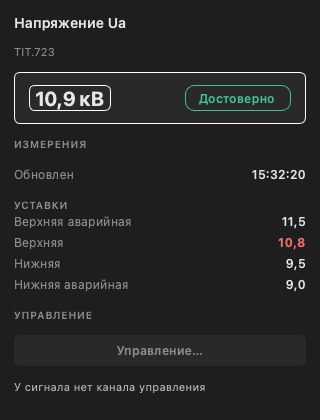
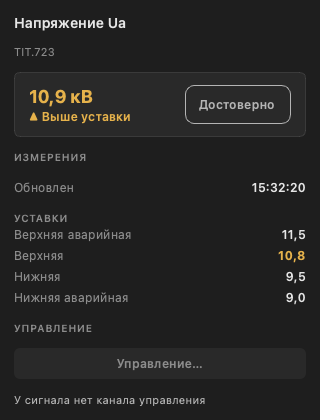
scada-docs: refresh published captures; describe the alarm fill and quality cues as shipped
Publishes the reviewed generator subset into img/ (24 images). Six move
because of d74cd3f3d (events, events-alarm-surface, table-workspace,
inspector-panel, series-inspector, devices, plus the two workbench
windows); the rest had lagged behind earlier client commits whose
gallery captures were already reviewed (account-roles, roles, users,
change-password, summary, limits-chart, graph-cursor, ...).

The text now matches the client, RU and en/ together:
- the journal fills only an alarm that awaits acknowledgement and is
  still active; acknowledged rows and archive records keep the severity
  as text colour (client.md, client/workbench.md, client/events.md);
- the journal's column table gains Message after Signal and the State
  column it already had but the page never listed;
- good quality is unmarked: an empty Quality cell, no tree dot, an
  ordinary-colour «Достоверно» in the Inspector.

Also corrected while there: the tree dot never blinked yellow for an
unacknowledged event (the value cell's background blinks, backlog 1120),
and uncertain quality does have a dot (amber); the pages said otherwise.

Validators: validate_i18n_pages.rb, validate_en_links.rb,
validate_image_manifest.py. The Jekyll build and built-site link check
were not run (no link or heading changed).

diff --git a/client.md b/client.md
@@ -770,7 +770,8 @@ permalink: /client/
 <dt>Столбец «Достоверность» в таблице</dt>
 <dd>Качество значения словом:
 <ul>
-<li>«Достоверно» (зелёным) — значение достоверно;</li>
+<li>пустая ячейка — значение достоверно: столбец заполняется только тогда,
+когда со значением что-то не так;</li>
 <li>«Неопределённо» (жёлтым) — значение устарело, признак <code>[У]</code>;
 текст ячеек строки тоже выводится жёлтым;</li>
 <li>«Недостоверно» (красным) — признак недостоверности или нет связи
@@ -783,21 +784,22 @@ permalink: /client/
 К, У в скобках перед значением, а инспектор — надписью «Недостоверно» (смотрите <a href="#control-checklist">Перед командой управления</a>).</dd>
 
 <dt>Точка слева от значения в дереве объектов</dt>
-<dd>Зелёная — значение достоверно; красная — недостоверно; <b>мигающая жёлтая</b> —
-по объекту есть неквитированное событие (одновременно мигает жёлтым и фон строки
-объекта). Отдельного цвета точки для «неопределённого» качества нет — его
-показывает столбец «Достоверность» в таблице. Пока значение
-не получено, точка не выводится; у групп точки нет — для группы выводится
-состояние связи с её устройством.</dd>
+<dd>Точка выводится только у значения с отклонением: жёлтая — значение
+устарело (неопределённо), красная — недостоверно. У достоверного значения точки
+нет. Неквитированное событие по объекту отмечает не точка, а мигающий фон
+ячейки значения. Пока значение не получено, точка не выводится; у групп точки
+нет — для группы выводится состояние связи с её устройством.</dd>
 
 <dt>Признак качества в инспекторе</dt>
-<dd>«Достоверно» или «Недостоверно» рядом с текущим значением. «Недостоверно» выводится для значения с признаком недостоверности, а также при потере связи с устройством ([С]), ошибке подключения ([Н]) или конфигурации ([К]) и устаревании ([У]).</dd>
+<dd>«Достоверно» (обычным цветом) или «Недостоверно» (красным) рядом с текущим значением. «Недостоверно» выводится для значения с признаком недостоверности, а также при потере связи с устройством ([С]), ошибке подключения ([Н]) или конфигурации ([К]) и устаревании ([У]).</dd>
 
 <dt>Цвет строки в журнале и панели событий</dt>
-<dd>Важность события: красная заливка — «Критично» (800 и выше), жёлтая —
-«Предупреждение» (600–799), остальные строки без заливки. Квитирование цвет
-строки не меняет; неквитированное событие отмечено точкой «●» в первом
-столбце. Смотрите <a href="{{ '/client/events/' | relative_url }}#severity">Важность</a>.</dd>
+<dd>Важность события: красный цвет — «Критично» (800 и выше), жёлтый —
+«Предупреждение» (600–799), остальные строки обычным цветом. Заливкой
+выделяется только тревога, которая ждёт квитирования и ещё действует; после
+квитирования, а также в записях архива строка остаётся без заливки, а
+важность показывает цвет текста. Неквитированное событие отмечено точкой «●» в
+первом столбце, а столбец «Состояние» называет его состояние словами. Смотрите <a href="{{ '/client/events/' | relative_url }}#severity">Важность</a>.</dd>
 
 </dl>
 

diff --git a/client/workbench.md b/client/workbench.md
@@ -33,9 +33,10 @@ permalink: /client/workbench/
   [Оповещение о тревогах]({{ '/client/alarms/' | relative_url }}#escalation)). Пользователь,
   состояние подключения и адрес сервера в этой строке не показываются — они
   выведены только в строке состояния.
-- **Панель объектов** — дерево объектов с полем «Фильтр» и точками качества:
-  зелёная — достоверно, красная — недостоверно, мигающая жёлтая — по объекту
-  есть неквитированное событие. Подробнее — в разделе
+- **Панель объектов** — дерево объектов с полем «Фильтр» и точками качества
+  у значений с отклонением: жёлтая — неопределённо, красная — недостоверно; у
+  достоверного значения точки нет. Неквитированное событие по объекту отмечает
+  мигающий фон ячейки значения. Подробнее — в разделе
   [Как читать значения и цвета]({{ '/client/' | relative_url }}#quality-legend).
   Дерево начинается сразу с содержимого: заголовок панели уже называет его,
   поэтому отдельная корневая строка не выводится. То же и в панелях
@@ -398,10 +399,12 @@ macOS она выглядит как ⌘K, в Windows — Ctrl+K.*
 
 [Журнал событий]({{ '/client/events/' | relative_url }}) читается как панель тревог:
 
-- **Цвет строки — важность.** Строка тревоги окрашивается по важности
-  (красная — критично, жёлтая — предупреждение); рядовые события остаются без
-  заливки, чтобы взгляд притягивали только тревоги. Квитирование цвет строки
-  не меняет.
+- **Цвет строки — важность, заливка — требуется действие.** Тревога, которая
+  ждёт квитирования и ещё действует, залита цветом важности (красная —
+  критично, жёлтая — предупреждение). Квитированная тревога и записи архива
+  остаются без заливки, а важность показывает цвет их текста, поэтому взгляд
+  притягивают только тревоги, ждущие оператора. Рядовые события выводятся
+  обычным цветом.
 - **Точка «не квитировано»** — первый столбец помечает каждую неквитированную
   строку точкой, а ячейка «Время квитирования» такой строки показывает
   «— ожидает —». Точка отвечает за состояние квитирования, цвет строки — за

diff --git a/en/client.md b/en/client.md
@@ -779,7 +779,8 @@ entered value does not show the backup-channel flag); then Б blocked,
 <dd>The value's quality in words (the Russian client shows the Russian
 labels):
 <ul>
-<li>"Good" («Достоверно», green) — the value is good;</li>
+<li>an empty cell — the value is good: the column is filled in only when
+something is wrong with the value;</li>
 <li>"Uncertain" («Неопределённо», amber) — the value is stale, the
 <code>[У]</code> flag; the row's cell text is amber too;</li>
 <li>"Bad" («Недостоверно», red) — the bad flag, or no connection
@@ -793,24 +794,25 @@ letters С, Н, К, У in the brackets before the value, and the Inspector as "B
 <a href="#control-checklist">Before a control command</a>).</dd>
 
 <dt>The dot beside a value in the object tree</dt>
-<dd>Green — the value is good; red — bad; <b>blinking yellow</b> — the object
-has an unacknowledged event (the row's background blinks yellow with it).
-There is no separate dot colour for "uncertain" quality — the table's
-"Quality" column shows it. No dot is drawn until a
-value has arrived, and groups have none — a group shows its device's
-connection state instead.</dd>
+<dd>A dot is drawn only beside a value that is not good: amber — the value is
+stale (uncertain), red — bad. A good value has no dot. An unacknowledged event
+on the object is marked not by the dot but by the value cell's blinking
+background. No dot is drawn until a value has arrived, and groups have none —
+a group shows its device's connection state instead.</dd>
 
 <dt>The quality label in the Inspector</dt>
-<dd>"Good" or "Bad" beside the current value. "Bad" is shown for a value
+<dd>"Good" (in the ordinary text colour) or "Bad" (red) beside the current value. "Bad" is shown for a value
 carrying the bad flag, and also with a lost device connection ([С]), a
 connection failure ([Н]), a configuration error ([К]) or a stale value
 ([У]).</dd>
 
 <dt>Row colour in the journal and the event panel</dt>
-<dd>The event's severity: a red fill is "Critical" (800 and above), a yellow
-fill "Warning" (600–799), and other rows have no fill. Acknowledging does not
-change the row colour; an unacknowledged event is marked with "●" in the first
-column. See <a href="{{ '/en/client/events/' | relative_url }}#severity">Severity</a>.</dd>
+<dd>The event's severity: red is "Critical" (800 and above), yellow "Warning"
+(600–799), and other rows are in the ordinary colour. Only an alarm that is
+waiting to be acknowledged and still active is filled; once acknowledged, and
+in archive records, the row has no fill and its text carries the severity
+colour. An unacknowledged event is marked with "●" in the first column, and
+the "State" column names its state in words. See <a href="{{ '/en/client/events/' | relative_url }}#severity">Severity</a>.</dd>
 
 </dl>
 

diff --git a/client/events.md b/client/events.md
@@ -174,9 +174,10 @@ permalink: /client/events/
 | ● | Отметка неквитированного события |
 | Время | Дата и время события с миллисекундами |
 | Сигнал | Объект или устройство — источник события; «Локальное событие» для сообщений самого Клиента |
-| Важность | Число и название диапазона: «Критично 800», «Предупреждение 600» |
-| Значение | Значение объекта в момент события |
 | Сообщение | Текст события |
+| Важность | Число и название диапазона: «Критично 800», «Предупреждение 600» |
+| Состояние | Состояние тревоги словами: «Активно, не квитировано», «В норме», «Событие, квитировано» и т. п. |
+| Значение | Значение объекта в момент события |
 | Пользователь | Пользователь, действие которого вызвало событие |
 | Квитировал | Пользователь, квитировавший событие |
 | Время квитирования | Время квитирования |
@@ -185,9 +186,11 @@ permalink: /client/events/
 
 ## Важность {#severity}
 
-Важность — число от 1 до 1000. Строки с важностью 800 и выше окрашиваются
-красным («Критично»), от 600 до 799 — желтым («Предупреждение»), остальные не
-окрашиваются. Квитирование цвет строки не меняет. Итоговая строка под журналом
+Важность — число от 1 до 1000. Строки с важностью 800 и выше выводятся
+красным («Критично»), от 600 до 799 — желтым («Предупреждение»), остальные —
+обычным цветом. Заливку получает только строка, которая ждёт квитирования и ещё
+действует; после квитирования, а также в записях архива цвет важности остаётся
+у текста строки. Итоговая строка под журналом
 показывает число неквитированных событий и наивысшую важность среди них.
 
 Как читать остальные цвета и отметки — точки качества в дереве объектов, серый

diff --git a/en/client/workbench.md b/en/client/workbench.md
@@ -35,8 +35,9 @@ The workbench regions:
   The user, the connection state and the server address are not shown here —
   they appear in the status strip only.
 - **Object explorer** — the object tree with a "Filter" field and quality
-  dots: green — good, red — bad, blinking yellow — the object has an
-  unacknowledged event. See
+  dots beside values that are not good: amber — uncertain, red — bad; a good
+  value has no dot. An unacknowledged event on the object blinks the value
+  cell's background. See
   [Reading values and colours]({{ '/en/client/' | relative_url }}#quality-legend). The tree starts at its
   content: the pane's own title already names it, so no separate root row is
   drawn. The same holds for the Devices, Files and Nodes panes.
@@ -390,9 +391,12 @@ mini-graph of the value over the last hour, updating live.
 The [event journal]({{ '/en/client/events/' | relative_url }}) reads as an
 alarm panel:
 
-- **Row colour is severity.** An alarm row is coloured by its severity (red —
-  critical, amber — warning); routine events stay unfilled so the eye is drawn
-  only to alarms. Acknowledging does not change the row's colour.
+- **Row colour is severity; a fill means action is needed.** An alarm that is
+  waiting to be acknowledged and still active is filled in its severity colour
+  (red — critical, amber — warning). An acknowledged alarm and archive records
+  have no fill and carry the severity in their text colour, so the eye is drawn
+  only to alarms waiting for the operator. Routine events are in the ordinary
+  colour.
 - **Pending dot** — the leading column marks every unacknowledged row with a
   dot, and such a row's "Acknowledge Time" cell reads "— pending —". The dot
   carries the acknowledgement state and the row colour carries the severity,

diff --git a/en/client/events.md b/en/client/events.md
@@ -170,9 +170,10 @@ log has no *Statistics…* button.
 | ● | Marks an unacknowledged event |
 | Time | Date and time of the event, with milliseconds |
 | Item | The object or device the event came from; "Local Event" for the Client's own messages |
-| Severity | The number and its range name: "Critical 800", "Warning 600" |
-| Value | The object's value at the time of the event |
 | Message | The event text |
+| Severity | The number and its range name: "Critical 800", "Warning 600" |
+| State | The alarm state in words: "Active, unacknowledged", "Returned to normal", "Event, acknowledged" and so on |
+| Value | The object's value at the time of the event |
 | User | The user whose action caused the event |
 | Acknowledged By | The user who acknowledged the event |
 | Acknowledge Time | When it was acknowledged |
@@ -182,8 +183,10 @@ Events are sorted by time, newest first, by default.
 ## Severity {#severity}
 
 Severity is a number from 1 to 1000. Rows of severity 800 and above are red
-("Critical"), 600 to 799 yellow ("Warning"), and the rest have no fill.
-Acknowledging does not change the row colour. The summary line below the
+("Critical"), 600 to 799 yellow ("Warning"), and the rest are in the ordinary
+colour. Only a row that is waiting to be acknowledged and still active is
+filled; once acknowledged, and in archive records, the severity colour stays
+on the row's text. The summary line below the
 journal shows the number of unacknowledged events and the highest severity
 among them.
 
